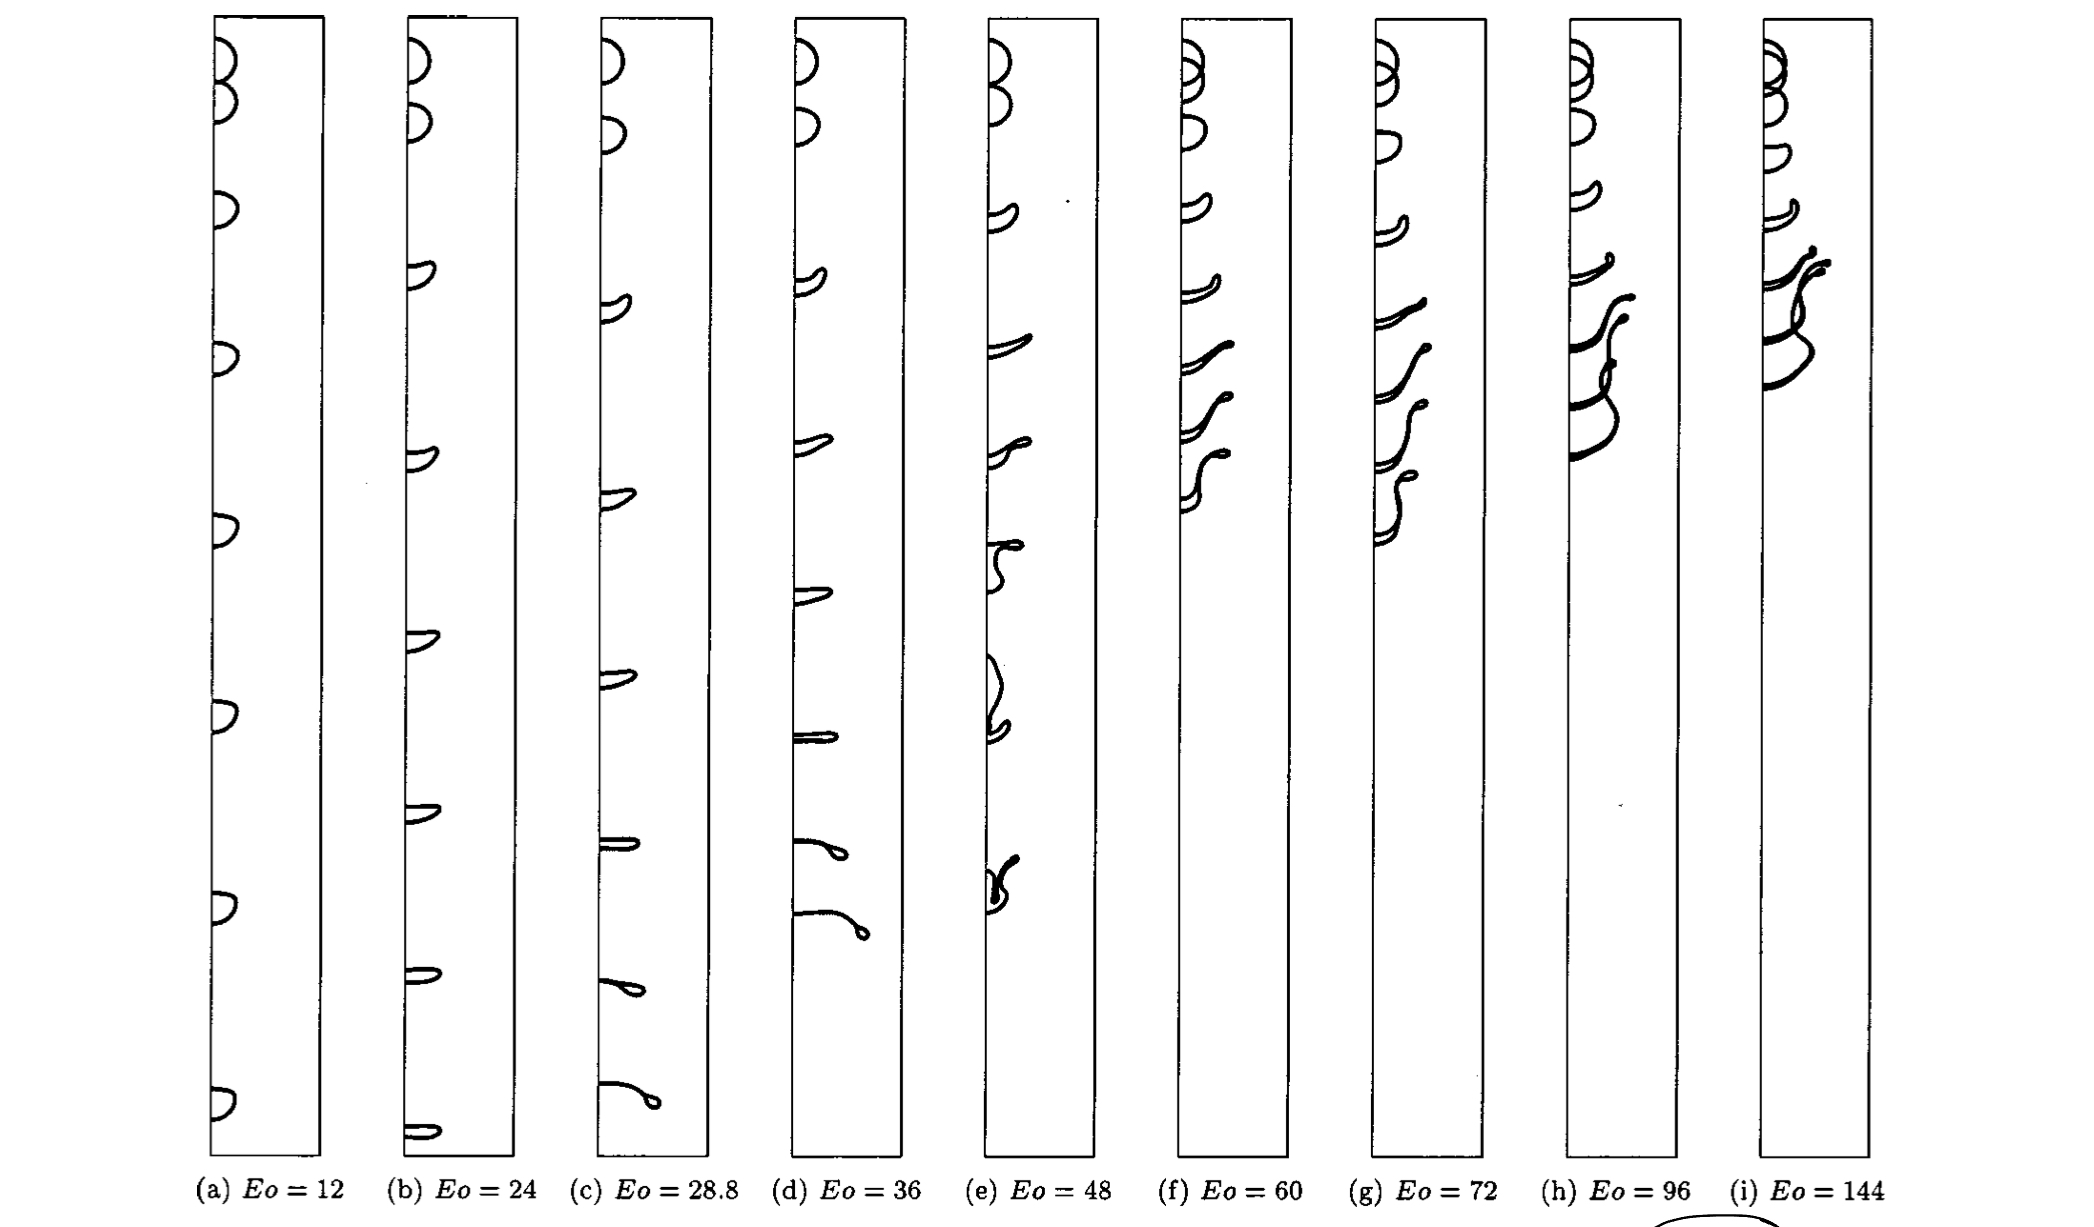
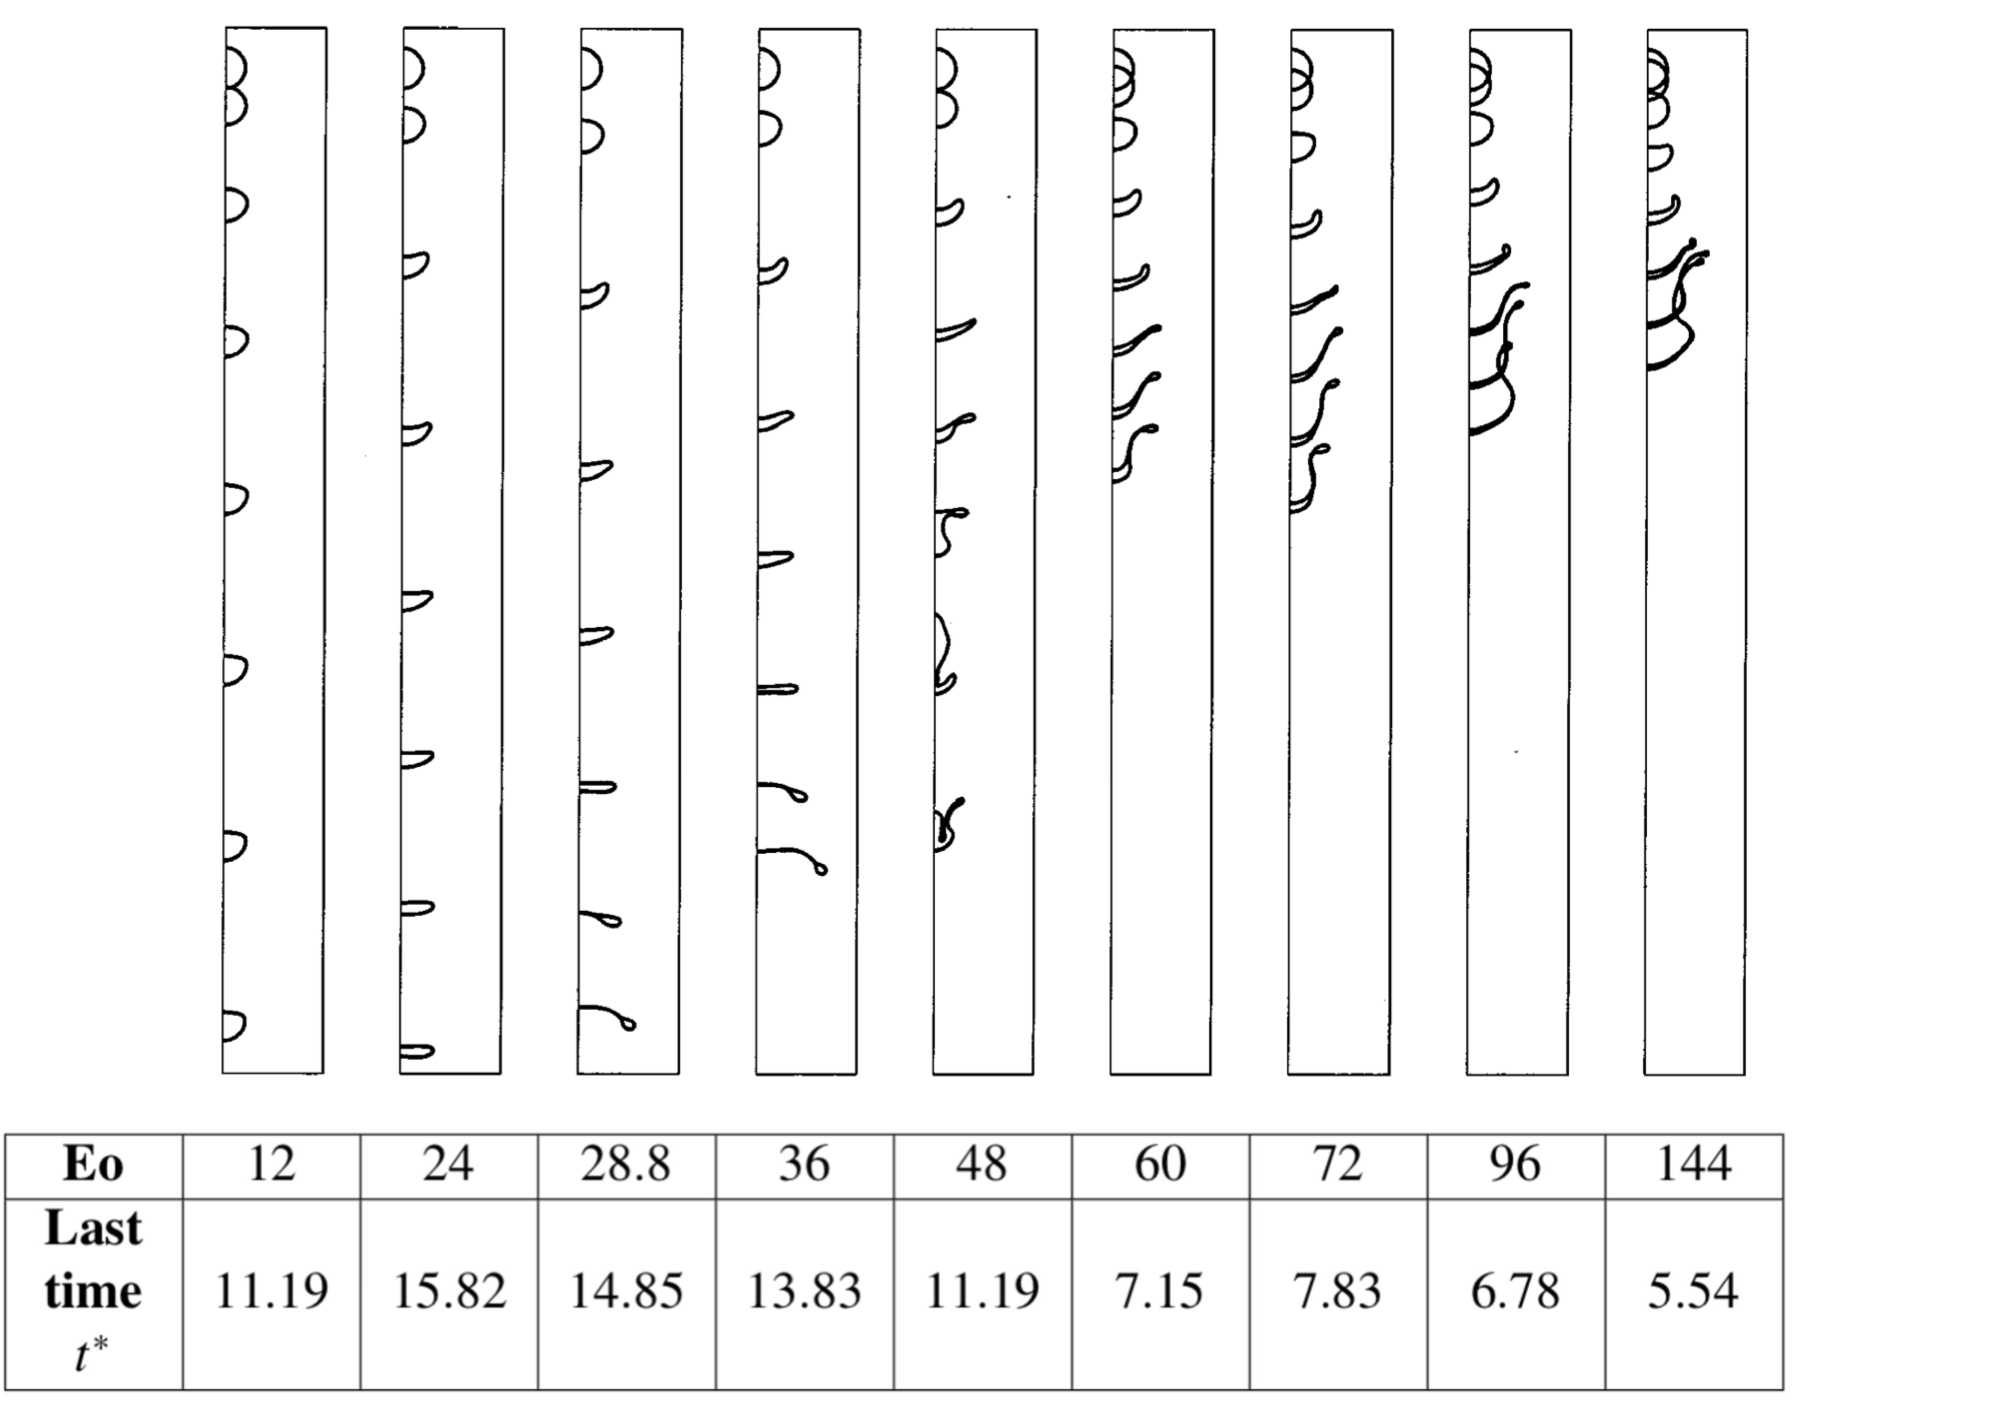
Updates from Overleaf

diff --git a/Latex/Project_1.tex b/Latex/Project_1.tex
@@ -22,6 +22,7 @@
 
 %%%%%%%%%%%% for pseudocode %%%%%%%
 \usepackage{algorithm}
+\usepackage{algorithmic}
 \usepackage{algpseudocode}
 %%%%%%%%%%%%%%%%%%%%%%%%%%%%%%%%%%%
 
@@ -45,6 +46,8 @@
 \usepackage{fancyhdr}
 \usepackage{titling}
 \usepackage{lipsum}  % This package provides filler text, remove it in your actual document
+
+\usepackage{overpic} % put table on the figure
 
 \geometry{
  a4paper,
@@ -101,8 +104,8 @@
 \begin{tabularx}{\textwidth}{|c|X|X|}
 \hline
 \textbf{Ref}                 & \textbf{Key Approach}                                                 & \textbf{Result/Contribution}                                                            \\ \hline
-Stokes, 1851                 & Analytic solution for viscous drag on small spheres                    & Established Stokes' law, applicable to small falling droplets                           \\ \hline
-Worthington, 1876            & First experimental capture of falling drop dynamics                    & Laid the experimental foundation for drop dynamics studies                              \\ \hline
+Stokes, 1851\cite{stokes1851pendulums}                  & Analytic solution for viscous drag on small spheres                    & Established Stokes' law, applicable to small falling droplets                           \\ \hline
+Worthington, 1876  \cite{worthington1876study}          & First experimental capture of falling drop dynamics                    & Laid the experimental foundation for drop dynamics studies                              \\ \hline
 Rayleigh, 1878               & Stability of liquid jets                                               & Foundation for instability phenomena in fluid dynamics                                  \\ \hline
 Taylor, 1934                 & Study of emulsion formation in flow fields                             & Key insights into the relationship between surface tension and flow                     \\ \hline
 Proudman \& Pearson, 1957    & Expansion at small Reynolds number                                     & Showed shape deformation and velocity relationship for falling droplets                 \\ \hline
@@ -190,15 +193,72 @@ Fuster \& Popinet, 2018      & All-Mach method for bubble dynamics and surface t
 
 \subsection{Numerical Approach}
 
+\subsubsection{Finite Volume Method}
 
-\subsection{Parameters}
-
-
-
+\subsubsection{Front Tracking}
 
 
 
+\subsubsection{Numerical Algorithm }
 
+\begin{algorithm}[H]
+\tiny
+\caption{Navier-Stokes Solver}
+\begin{algorithmic}[1]
+\STATE \textbf{Initialize} grid parameters, velocity fields $u$, $v$, pressure field $p$, density $r$, viscosity $m$, etc.
+\FOR{each time step $is = 1$ to $nstep$}
+    \STATE \textbf{Store Previous State}: Save current velocity and physical quantities as $u^n$, $v^n$, $r^n$, $m^n$
+    \FOR{Runge-Kutta substeps $substep = 1$ to $3$}
+        \STATE \textbf{Advection}
+        \FOR{each $u$ grid point $(i,j)$}
+            \STATE Compute temporary velocity $u^*(i,j)$ including convection terms
+        \ENDFOR
+        \FOR{each $v$ grid point $(i,j)$}
+            \STATE Compute temporary velocity $v^*(i,j)$ including convection terms
+        \ENDFOR
+        
+        \STATE \textbf{Viscous Terms}
+        \FOR{each $u$ grid point $(i,j)$}
+            \STATE Add viscous contributions to $u^*(i,j)$
+        \ENDFOR
+        \FOR{each $v$ grid point $(i,j)$}
+            \STATE Add viscous contributions to $v^*(i,j)$
+        \ENDFOR
+        
+        \STATE \textbf{Pressure Projection}
+        \STATE \textbf{Assemble Pressure Poisson Equation}
+        \STATE Use Successive Over-Relaxation (SOR) method to solve for pressure field $p$
+        
+        \STATE \textbf{Velocity Correction}
+        \FOR{each $u$ grid point $(i,j)$}
+            \STATE $u(i,j) = u^*(i,j) - \frac{\Delta t}{\rho \Delta x}(p(i+1,j) - p(i,j))$
+        \ENDFOR
+        \FOR{each $v$ grid point $(i,j)$}
+            \STATE $v(i,j) = v^*(i,j) - \frac{\Delta t}{\rho \Delta y}(p(i,j+1) - p(i,j))$
+        \ENDFOR
+        
+        \STATE \textbf{Runge-Kutta Time Integration}
+        \IF{$substep = 2$}
+            \STATE Update velocity and physical quantities: $u = 0.75 \times u^n + 0.25 \times u$, similarly for $v$, $r$, $m$
+        \ELSIF{$substep = 3$}
+            \STATE Update velocity and physical quantities: $u = \frac{1}{3} \times u^n + \frac{2}{3} \times u$, similarly for $v$, $r$, $m$
+        \ENDIF
+    \ENDFOR
+\ENDFOR
+\end{algorithmic}
+\end{algorithm}
+
+
+
+
+\subsection{Problem Parameters}
+
+
+
+
+
+
+\subsubsection{Parameters Define The Problem}
 To construct the problem, we are using a finite domain to simulate the drop breakup, where the symbols and their description showing as follows:
 \begin{table}[ht]
 \scriptsize
@@ -223,7 +283,7 @@ $g$ & Gravitational acceleration & $9.81 \, \text{m/s}^2$ \\ \hline
 \label{tab:SymbolExplanations}
 \end{table}
 
-\subsection{Nondimensional Numbers}
+\subsubsection{Domain Non-dimensional Numbers}
 % We need non-dimensional time, which could lead more accurate comparison with the literature.
 % \begin{equation}
 %     t^* = \frac{tV}{D}
@@ -263,7 +323,7 @@ $\mu^* = \frac{\mu_d}{\mu_o}$ & Viscosity ratio & Ratio of the viscosity of the 
 \end{table}
 
 
-\subsection{Non-Dimensional number's control using $a_z$ and $\mu_D$}
+\subsection{Control Non-Dimensional numbers using $a_z$ and $\mu_D$}
 
 
 As the major non-dimensional numbers are Ohnesorge number and Eotvos number, we use our basic parameters to control them:
@@ -275,6 +335,8 @@ As the major non-dimensional numbers are Ohnesorge number and Eotvos number, we 
     \hspace{0.2\textwidth} 
     & \mu_D &= Oh_d \sqrt{\rho_d D \sigma} = \sqrt{6000} \, Oh_d
 \end{align}
+
+By seperatly change these key parameters, we could seperatly change the non-dimensional numbers, and discuss their effect of the drop deform scheme.
 
 \begin{minipage}[t]{0.45\textwidth}
     \centering
@@ -300,33 +362,60 @@ As the major non-dimensional numbers are Ohnesorge number and Eotvos number, we 
 
 
 
-\section{Simulation Setup}
-\subsection{Domain and Boundary Condition}
-The Domain is set up as follows:
+% \section{Simulation Setup}
+% \subsection{Domain and Boundary Condition}
+% The Domain is set up as follows:
+% \begin{figure}[H]
+%     \centering
+%     \includegraphics[width=0.6\textwidth]{Latex/figures/Domain.jpg}
+%     % \caption{Drop deformation as a function of the Reynolds number.}
+%     \label{deformation}
+% \end{figure}
+
+
+
+% \begin{table}[ht]
+% \scriptsize
+% \centering
+% % \caption{Explanation of symbols and their corresponding values used in non-dimensional numbers}
+% \renewcommand{\arraystretch}{1.5} % Adjust row height
+% \begin{tabular}{|c|c|c|c|c|c|c|c|}
+% \hline
+% \multicolumn{4}{|c|}{\textbf{Length}} & \multicolumn{4}{c|}{\textbf{Boundary condition}} \\
+% \hline
+% $L_x$ & $L_y$ & $L_c$ & $D$   & Top & Bottom & Left & Right \\
+% \hline
+% $10D$ & $30D$ & $0.9L_y$ & $D$   & Symm & Symm & Symm & Symm \\
+% \hline
+% \end{tabular}
+% \end{table}
+
+
 \begin{figure}[H]
     \centering
-    \includegraphics[width=0.6\textwidth]{Latex/figures/Domain.jpg}
+    \begin{overpic}[width=0.6\textwidth]{Latex/figures/Domain.jpg}
+        \put(40,40){% 调整这些坐标以定位表格
+            \begin{minipage}{0.45\textwidth}
+                \scriptsize
+                \renewcommand{\arraystretch}{1.5} % 调整行高
+                \begin{tabular}{|c|c|c|c|c|c|c|c|}
+                    \hline
+                    \multicolumn{4}{|c|}{\textbf{Length}} & \multicolumn{4}{c|}{\textbf{Boundary condition}} \\
+                    \hline
+                    $L_x$ & $L_y$ & $L_c$ & $D$ & Top & Bottom & Left & Right \\
+                    \hline
+                    $10D$ & $30D$ & $0.9L_y$ & $D$ & Symm & Symm & Symm & Symm \\
+                    \hline
+                \end{tabular}
+            \end{minipage}
+        }
+    \end{overpic}
     % \caption{Drop deformation as a function of the Reynolds number.}
     \label{deformation}
 \end{figure}
 
 
 
-\begin{table}[ht]
-\scriptsize
-\centering
-% \caption{Explanation of symbols and their corresponding values used in non-dimensional numbers}
-\renewcommand{\arraystretch}{1.5} % Adjust row height
-\begin{tabular}{|c|c|c|c|c|c|c|c|}
-\hline
-\multicolumn{4}{|c|}{\textbf{Length}} & \multicolumn{4}{c|}{\textbf{Boundary condition}} \\
-\hline
-$L_x$ & $L_y$ & $L_c$ & $D$   & Top & Bottom & Left & Right \\
-\hline
-$10D$ & $30D$ & $0.9L_y$ & $D$   & Symm & Symm & Symm & Symm \\
-\hline
-\end{tabular}
-\end{table}
 
 
 
@@ -339,11 +428,8 @@ $10D$ & $30D$ & $0.9L_y$ & $D$   & Symm & Symm & Symm & Symm \\
 
 
 
+\section{Result, Compare, and Discussion}
 
-
-
-\subsection{Result}
-\subsubsection{Compare to Perivous Result}
 
 
 
@@ -353,23 +439,73 @@ $10D$ & $30D$ & $0.9L_y$ & $D$   & Symm & Symm & Symm & Symm \\
 
 \begin{figure}[H]
     \centering
-    \includegraphics[width=\textwidth]{Latex/figures/Trygg_allEo.jpg}
+    \includegraphics[width=0.8\textwidth]{Latex/figures/Trygg_allEo.jpg}
     \caption{Drop deformation as a function of the Reynolds number.}
     \label{deformation}
 \end{figure}
 
 
-\begin{tabular}{|>{\centering\arraybackslash}m{1cm} |>{\centering\arraybackslash}m{1cm} |>{\centering\arraybackslash}m{1cm} |>{\centering\arraybackslash}m{1cm} |>{\centering\arraybackslash}m{1cm} |>{\centering\arraybackslash}m{1cm} |>{\centering\arraybackslash}m{1cm} |>{\centering\arraybackslash}m{1cm} |>{\centering\arraybackslash}m{1cm} |>{\centering\arraybackslash}m{1cm}|}
-\hline
-\textbf{Eo} & 12 & 24 & 28.8 & 36 & 48 & 60 & 72 & 96 & 144 \\
-\hline
-\textbf{Last time $t^*$} & 11.19 & 15.82 & 14.85 & 13.83 & 11.19 & 7.15 & 7.83 & 6.78 & 5.54 \\
-\hline
-\end{tabular}
+% \begin{tabular}{|>{\centering\arraybackslash}m{1cm} |>{\centering\arraybackslash}m{1cm} |>{\centering\arraybackslash}m{1cm} |>{\centering\arraybackslash}m{1cm} |>{\centering\arraybackslash}m{1cm} |>{\centering\arraybackslash}m{1cm} |>{\centering\arraybackslash}m{1cm} |>{\centering\arraybackslash}m{1cm} |>{\centering\arraybackslash}m{1cm} |>{\centering\arraybackslash}m{1cm}|}
+% \hline
+% \textbf{Eo} & 12 & 24 & 28.8 & 36 & 48 & 60 & 72 & 96 & 144 \\
+% \hline
+% \textbf{Last time $t^*$} & 11.19 & 15.82 & 14.85 & 13.83 & 11.19 & 7.15 & 7.83 & 6.78 & 5.54 \\
+% \hline
+% \end{tabular}
+
+
+\subsubsection{}
+\begin{figure}[H]
+    \centering
+    \includegraphics[width=0.6\textwidth]{Latex/figures/Eo_effect.jpg}
+    \caption{Drop deformation as a function of the Reynolds number.}
+    \label{deformation}
+\end{figure}
+
+
+
+Compare to Dr. Han and Dr. Tryggvason's research result in 3D (Axis-symmetric), we found for 2D drop (could be modeled as infinite cylinder), the evolution and break up actually occurred in the smaller Eo number, however, the break up scheme is much similar.
 
 
 
 
+In general, the drop will first been squeezed and from circle to elliptic shape, then, the effect of Eo number become more easier to be observed. At low Eo, the drop's center stick will decrease and become almost a line first, however, at high Eo, the drop's connection edge will become almost a line first. 
+
+At coarse grid, this will lead to simulation failure more easily. 
+
+
+
+
+\begin{figure}[H]
+    \centering
+    \includegraphics[width=\textwidth]{Latex/figures/All_Eo=12__t=0.28.png}
+    \caption{Drop deformation as a function of the Reynolds number.}
+    \label{deformation}
+\end{figure}
+
+
+
+\begin{figure}[H]
+    \centering
+    \includegraphics[width=\textwidth]{Latex/figures/All_Oh=1.25_t=0.44.png}
+    \caption{Drop deformation as a function of the Reynolds number.}
+    \label{deformation}
+\end{figure}
+
+
+
+\begin{figure}[H]
+    \centering
+    \includegraphics[width=0.6\textwidth]{Latex/figures/velocity_profile_compare.jpg}
+    \caption{Drop deformation as a function of the Reynolds number.}
+    \label{deformation}
+\end{figure}
+
+
+
+
+\bibliographystyle{plain}
+\bibliography{LateX/references}
 
 \end{document}
 
